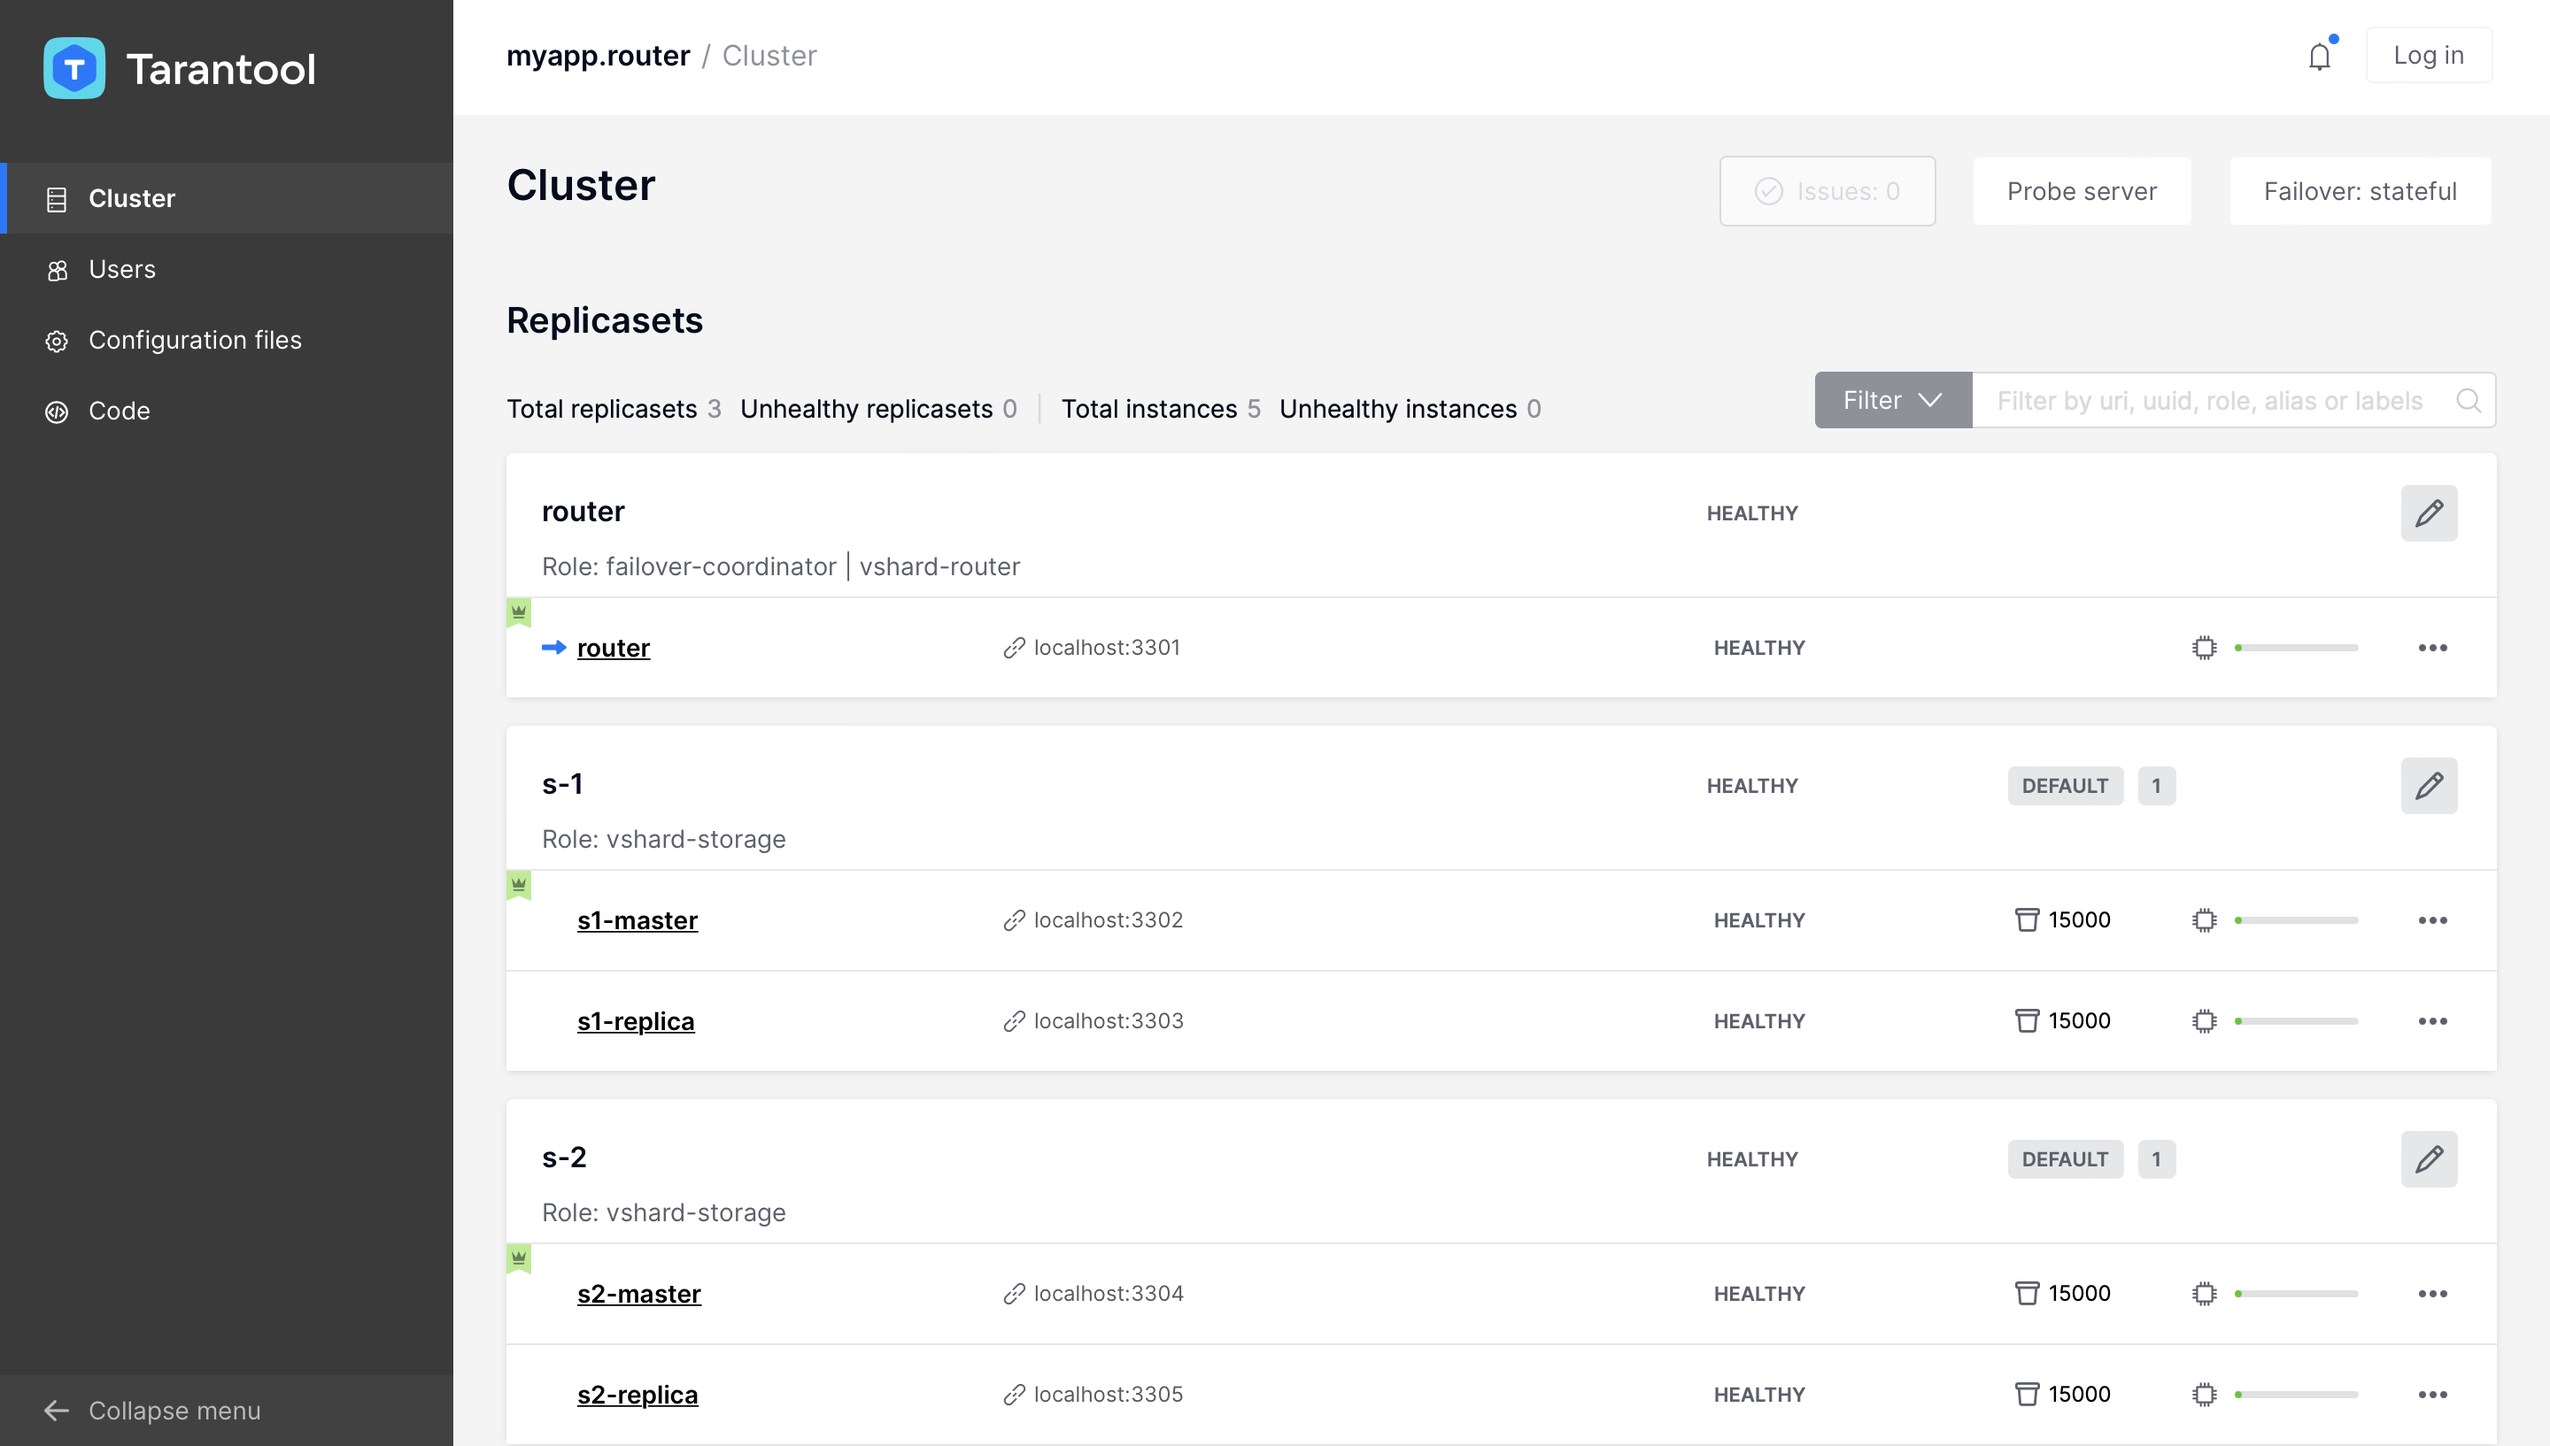
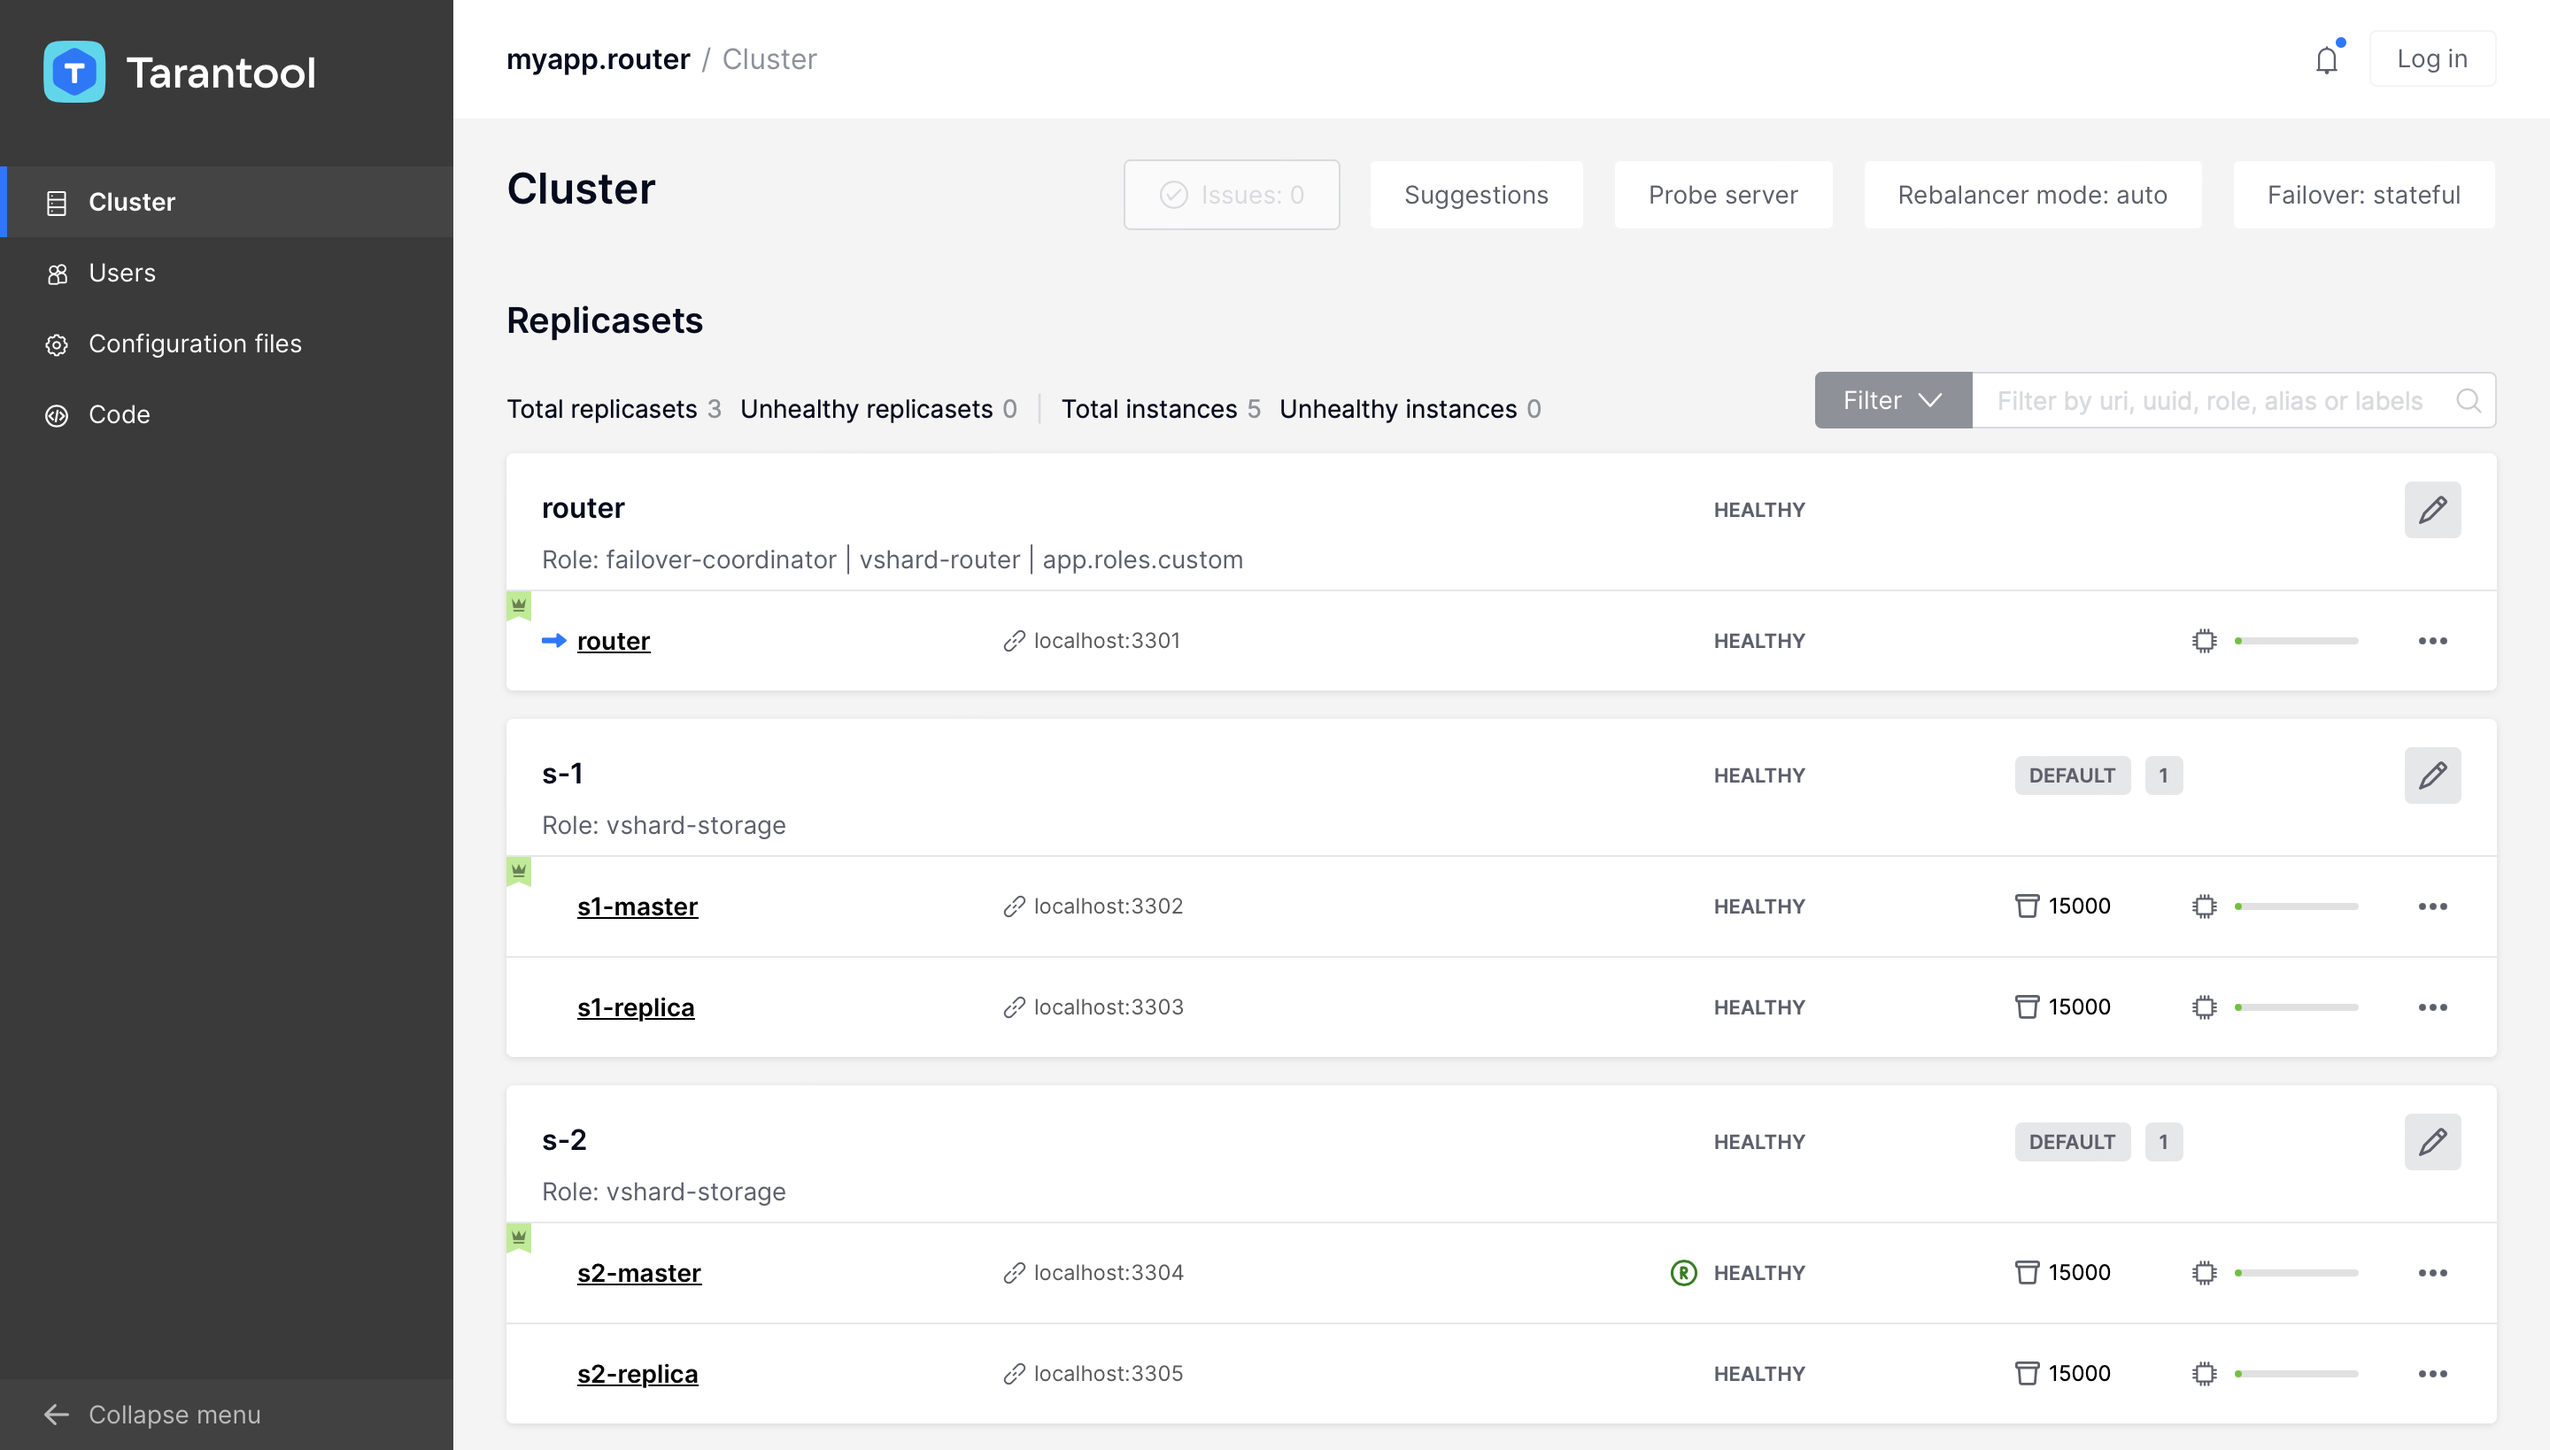
Update documentation

diff --git a/rst/cartridge_admin.rst b/rst/cartridge_admin.rst
@@ -849,6 +849,15 @@ GraphQL request).
 
 |nbsp|
 
+You can also check state provider status in failover settings tab (it only works **after**
+stateful failover was enabled):
+
+..  image:: images/state-provider-status.png
+    :align: left
+    :scale: 40%
+
+|nbsp|
+
 +++++++++++++++++++++++++++++++++++++++++++++++++++++++++++++++++++++++++++++++
 Raft failover (beta)
 +++++++++++++++++++++++++++++++++++++++++++++++++++++++++++++++++++++++++++++++
@@ -1453,6 +1462,24 @@ Cartridge displays cluster and instances issues in WebUI:
     * **warning**: "Raft leader idle is 10.000 on ... .
       Is raft leader alive and connection is healthy?"
 
+*   Unhealthy replicasets:
+
+    *   **critical**: "All instances are unhealthy in replicaset".
+
+    ..  image:: images/dead-replicaset-issue.png
+        :align: left
+        :scale: 40%
+
+    |nbsp|
+
+    The issue is produced when all instances in the replicaset are unhealthy
+    and **not disabled**. You can disable both to get rid of the issue.
+
+    ..  image:: images/dead-replicaset.png
+        :align: left
+        :scale: 40%
+
+    |nbsp|
 
 *   Custom issues (defined by user):
 
@@ -1516,6 +1543,89 @@ And then choose one of the tabs to see various parameters:
 
 |nbsp|
 
+
+.. _rebalancer-control:
+
+-------------------------------------------------------------------------------
+Rebalancer control
+-------------------------------------------------------------------------------
+
+Cartridge provides a way to control VShard rebalancer via WebUI and GraphQL API.
+You can operate rebalancer mode and change rebalancer settings on each replicaset
+or instance. It can be useful to stop rebalancer or choose rebalancer instance manually.
+
+To change rebalancer mode, click on "Rebalancer mode" button next to "Failover" button
+and choose desired mode:
+
+..  image:: images/rebalancer-mode.png
+    :align: left
+    :scale: 40%
+
+|nbsp|
+
+To change rebalancer settings on replicaset, click on "Edit replicaset" button
+and then choose desired rebalancer state ("unset" means abcence of the value):
+
+..  image:: images/rebalancer-replicaset.png
+    :align: left
+    :scale: 40%
+
+|nbsp|
+
+To change rebalancer settings on instance, click on "..." button next to it:
+
+..  image:: images/rebalancer-instance-button.png
+    :align: left
+    :scale: 40%
+
+|nbsp|
+
+And then choose desired rebalancer state ("unset" means abcence of the value):
+
+..  image:: images/rebalancer-instance.png
+    :align: left
+    :scale: 40%
+
+|nbsp|
+
+You can see current settings and actual rebalancer state in WebUI. Black R means
+that rebalancer is ``true`` on this instance/replicaset, grey R means that rebalancer
+is ``false``  on this instance/replicaset, and green R means that rebalancer
+is running on this instance:
+
+..  image:: images/rebalancer-flags.png
+    :align: left
+    :scale: 40%
+
+|nbsp|
+
+See VShard documentation to get more information about rebalancer usage.
+
+.. _cartridge-migrations:
+
+-------------------------------------------------------------------------------
+Migrations
+-------------------------------------------------------------------------------
+
+Since Cartridge 2.10.0 when using ``migrations`` 1.0.0 or higher, you can use
+WebUI to monitor and control you migrations.
+
+At first, open migrations tab in the left menu. From here, you can see all migrations
+status and can start migrations.
+
+..  image:: images/migrations.png
+    :align: left
+    :scale: 40%
+
+|nbsp|
+
+After clicking on "Migration Up" button, you will see the result:
+
+..  image:: images/applied-migrations.png
+    :align: left
+    :scale: 40%
+
+|nbsp|
 
 .. _cartridge-change-cookie:
 

diff --git a/CHANGELOG.rst b/CHANGELOG.rst
@@ -46,7 +46,7 @@ Changed
 Fixed
 ~~~~~~~~~~~~~~~~~~~~~~~~~~~~~~~~~~~~~~~~~~~~~~~~~~~~~~~~~~~~~~~~~~~~~~~~~~~~~~~
 
-- Swithing leadership when disabling leader in replicaset.
+- Switching leadership when disabling leader in replicaset.
 
 -------------------------------------------------------------------------------
 [2.9.0] - 2024-03-06
